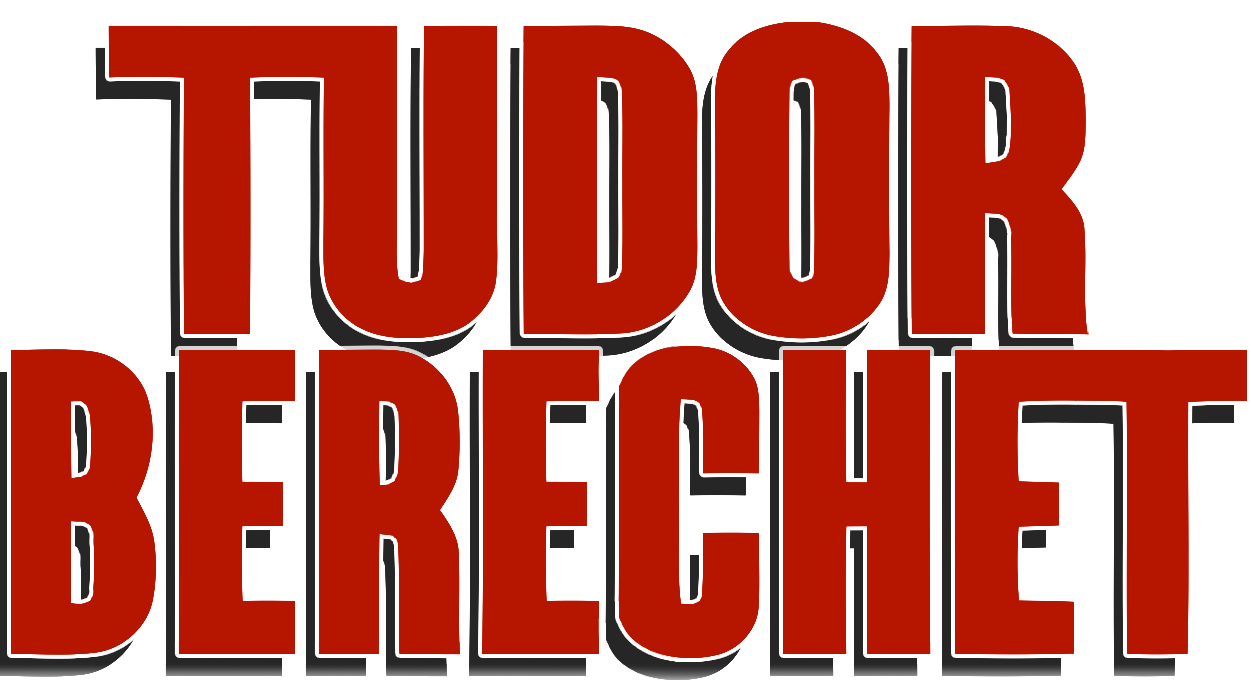
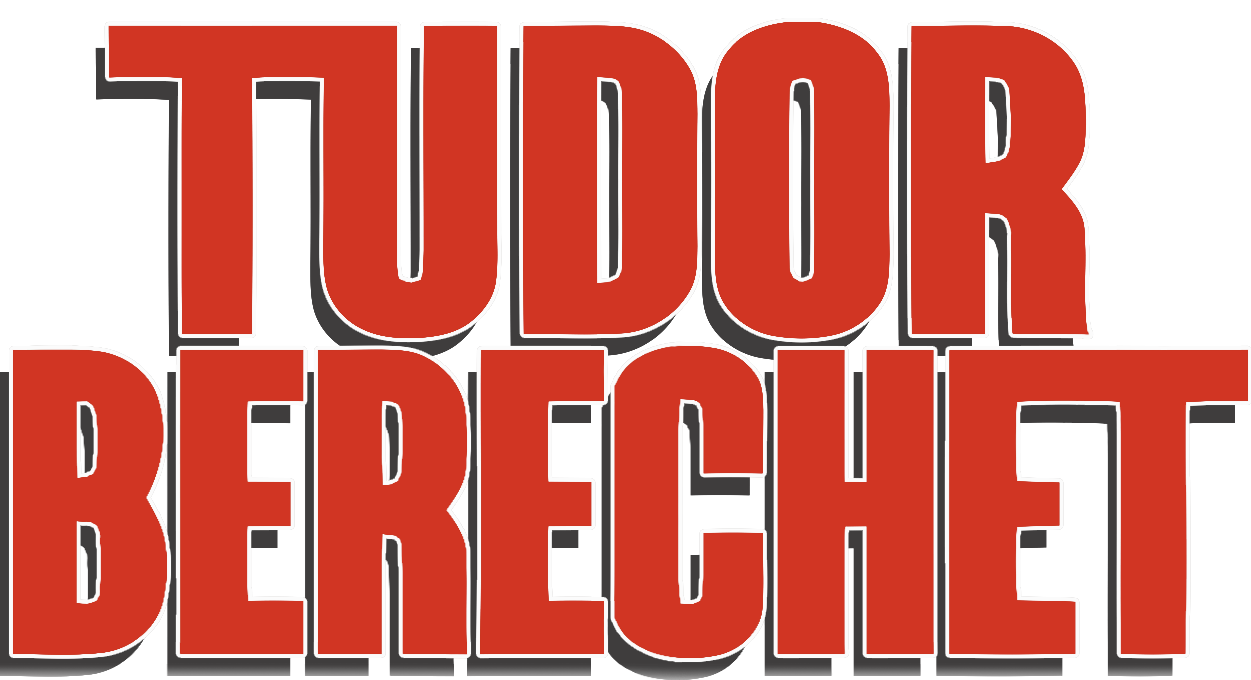
Bumped up global light brightness.

diff --git a/css/style.css b/css/style.css
@@ -342,23 +342,7 @@ http://fontpro.com/days-one-font-16514
 }
 
 .highlight{
-	/*color: #c53935;*/
-	/*text-shadow: 0px 6px 8px rgba(0,0,0,.16);*/
-	/*
-	color: black;
-	-webkit-text-fill-color: black; 
-    -webkit-text-stroke-width: 14px;
-    -webkit-text-stroke-color: rgba(255,255,255,.074);
-	*/
 
-	/*text-shadow: 0px 0px 14px rgba(255,255,255,1);*/
-	/*text-shadow:0 0 10px #fff, 0 0 20px #00d2ff, 0 0 30px #00d2ff, 0 0 40px #00d2ff, 0 0 50px #00d2ff, 0 0 60px #00d2ff, 0 0 70px #00d2ff;*/
-	/*0 0 10px rgba(255,255,255,1),*/
-	/*
-	text-shadow: 0 0 12px rgba(255,255,255,0.8), 0 0 18px rgba(255,255,255,0.6), 0 0 24px rgba(255,255,255,0.8) 0 0 24px rgba(255,255,255,1) 
-	0 0 24px rgba(255,255,255,1) 0 0 24px rgba(255,255,255,1) 0 0 24px rgba(255,255,255,1) 0 0 24px rgba(255,255,255,1);*/
-	/*text-shadow: 0 0 12px rgba(255,255,255,0.8), 0 0 18px rgba(255,255,255,0.6), 0 0 24px rgba(255,255,255,0.8), 0 0 12px*/
-	/*
 	text-shadow: 0 0 12px rgba(255,255,255,1), 0 0 18px rgba(255,255,255,1), 0 0 24px rgba(255,255,255,1), 0 0 12px rgba(255,255,255,.25), 0 0 18px rgba(255,255,255,.25), 0 0 24px rgba(255,255,255,.25);*/
 	text-shadow: 0 0 12px rgba(255,255,255,.7), 0 0 18px rgba(255,255,255,.8), 0 0 24px rgba(255,255,255,.7);  
 }
@@ -644,7 +628,7 @@ button {  width: auto; overflow: visible; }
 	/*left: -84px;*/
 	left: -86px;
 	/*top: -9px; */
-	top: -9px; 
+	top: -10px; 
 	
 	cursor: default; 
 	
@@ -689,7 +673,7 @@ button {  width: auto; overflow: visible; }
 	height: 171px;  
 	background: url("../images/tudor0.png"); 
 	background-size: 281px 171px;
-	opacity: 0.95;/*0.8;*/
+	opacity: 0.92;/*0.95;*//*0.8;*/
     filter: alpha(opacity = 95/*80*/); /* For IE */ 
 	background-repeat: no-repeat;
 	/*
@@ -832,24 +816,31 @@ button {  width: auto; overflow: visible; }
 	
 	
 	/*padding-right: 12px;*/
-	padding-right: 10px;/*5px;*/
+	padding-right: 13px;/*5px;*/
 	/*margin-left: -18px;*/
-	margin-left: -12px;/*-8px;*/
+	/*margin-left: -12px;*//*-8px;*/
+	margin-left: 1px;/*-8px;*/
 	top: -6px;
 
-	width: 100px;
-	height: 70px;/*70px;*/
+	/*width: 100px;*/
+	width: 78px;
+	/*height: 64px;*//*70px;*/
+	height: 50px;
  }
    #symbolMain{
 	position: relative;
 	display: inline-block;
 
-	margin-top: 15px;
-	width: 100px;
-	height: 70px;
+	/*margin-top: 15px;*/
+	margin-top: 13px;
+	/*width: 100px;*/
+	width: 80px;
+	/*height: 70px;*/
+	height: 64px;
 	background: url("../images/symbol.png");
 	/*background-size: 400px 280px;*/
-	background-size: 100px 70px;
+	/*background-size: 100px 70px;*/
+	background-size: auto 56px;
 	opacity: 0.74;
     filter: alpha(opacity = 74);  /* For IE */
 	background-repeat: no-repeat;
@@ -990,7 +981,7 @@ button {  width: auto; overflow: visible; }
 	-o-box-shadow: 0px 0px 8px rgba(255,255,255,0.56);
 	box-shadow: 0px 0px 8px rgba(255,255,255,0.56);
 	
-	background-color: rgba(255,255,255,0.75);
+	background-color: rgba(257,254,255,0.75);
 	
 	-webkit-transition: all 1s;
 	-moz-transition: all 1s;
@@ -1046,7 +1037,7 @@ button {  width: auto; overflow: visible; }
 	*/
 	
 	/*color: #fff;#c53935;*/
-	color: rgba(255,255,255,0.75);
+	color: rgba(257,254,255,0.75);
 	
 	-moz-transform:rotate(0deg);
 	-o-transform:rotate(0deg);
@@ -1735,7 +1726,7 @@ button {  width: auto; overflow: visible; }
 	
 	/*background-color: rgba(255,255,255,.4);*//*fgAlpha 82*/
 	/*background-color: rgba(255,255,255,.3); */
-	background-color: rgba(255,255,255,.5); 
+	background-color: rgba(257,254,255,.5); 
     background-size: 100%;  /*this can be set to scale X or Y separately*/
 	-webkit-background-size: 100%;
 	-moz-background-size: 100%;
@@ -1784,7 +1775,7 @@ button {  width: auto; overflow: visible; }
 	-webkit-border-bottom-left-radius: 3px; 
 	
 	/*background-color: rgba(255,255,255,.4);*//*fgAlpha 82*/
-	background-color: rgba(255,255,255,.5);/*fgAlpha 82*/
+	background-color: rgba(257,254,255,.5);/*fgAlpha 82*/
     background-size: 100%;  /*this can be set to scale X or Y separately*/
 	-webkit-background-size: 100%;
 	-moz-background-size: 100%;
@@ -1895,7 +1886,7 @@ overflow: visible;
 	
 	/*background-color: rgba(255,255,255,.4);*//*fgAlpha 82*/
 	/*background-color: rgba(255,255,255,.3);*//*fgAlpha 82*/
-	background-color: rgba(255,255,255,.4);/*fgAlpha 82*/
+	background-color: rgba(257,254,255,.4);/*fgAlpha 82*/
     background-size: 100%;  /*this can be set to scale X or Y separately*/
 	-webkit-background-size: 100%;
 	-moz-background-size: 100%;
@@ -2016,7 +2007,7 @@ overflow: visible;
 	/*background-color: rgba(255,255,255,.66);*//*82*/
 	/*background-color: rgba(255,255,255,.7);*/
 	/*background-color: rgba(255,255,255,.75);*/
-	background-color: rgba(255,255,255,.88);
+	background-color: rgba(257,254,255,.88);
 }
 
 
@@ -2024,7 +2015,7 @@ overflow: visible;
 #projects{
 
 	/*background-color: rgba(255,255,255,.65)*/;/*82*/
-	background-color: rgba(255,255,255,.80);
+	background-color: rgba(257,254,255,.80);
 	overflow: hidden;
 }
 
@@ -2306,7 +2297,7 @@ overflow: visible;
 	margin-bottom: 0px;
 	margin-left: auto;*/
 
-	background-color: rgba(255,255,255,.4);/fgAlpha *82*/
+	background-color: rgba(257,254,255,.4);/fgAlpha *82*/
     background-size: 100%;  /*this can be set to scale X or Y separately*/
 	-webkit-background-size: 100%;
 	-moz-background-size: 100%;
@@ -2343,7 +2334,7 @@ overflow: visible;
 	
 	
 	/*border: 20px solid rgba(255,0,0,0.64);*//*201,0,0,0.7*/
-	border: 20px solid rgba(255,255,255,0.12);
+	border: 20px solid rgba(257,254,255,0.12);
 	/*border-width: 30px 20px 30px 20px;*/
 	/*border-width: 1.85em 1.1em 1.85em 1.1em;*/
 	/*border-width: 1.85em 1.8em 1.85em 1.8em;*/
@@ -2402,7 +2393,7 @@ overflow: visible;
 	width: 16.25em;
 	height: 16.25em;
 
-	background-color: rgba(255,255,255,.4);/fgAlpha *82*/
+	background-color: rgba(257,254,255,.4);/fgAlpha *82*/
     background-size: 100%;
 	-webkit-background-size: 100%;
 	-moz-background-size: 100%;
@@ -2527,7 +2518,7 @@ overflow: visible;
 
 
 	/*background-color: rgba(255,255,255,.4);*//*fgAlpha *82*/
-	background-color: rgba(255,255,255,.4);
+	background-color: rgba(257,254,255,.4);
     background-size: 100%;  /*this can be set to scale X or Y separately*/
 	-webkit-background-size: 100%;
 	-moz-background-size: 100%;

diff --git a/index.html b/index.html
@@ -59,8 +59,9 @@
 	</script>
 </head>
 
-<!--body id="zen" onload="doCenter(window.center({width:1,height:1}))" style="background: #d7dfd4;"-->
-<body id="zen" style="background: #e5ede2;" onload="onMainLoaded()"> 
+<!--body id="zen" onload="doCenter(window.center({width:1,height:1}))" style="
+background: #e5ede2; #d7dfd4;"-->
+<body id="zen" style="background: rgb(255,251,237);" onload="onMainLoaded()"> 
 <h1 id="hh1">Tudor's portfolio website. Software, games, shaders, design, art.</h1>
 
 <div id="container">	
@@ -116,9 +117,9 @@
 						<div class="article highlight" >
 							
 							<div id="openingWrapper">
-								<span id="openingL"><p><span id="symbolCntMain"><span id="symbolMain"></span></span><span class="parStart"></span> Hi, I'm Tudor and I like to express myself through interactive means of escapism. Let's see if we can be best buds.</p>
+								<span id="openingL"><p><span id="symbolCntMain"><span id="symbolMain"></span></span><span class="parStart"></span> Hi, I'm Tudor and I like to express myself through interactive means of escapism. &nbsp; Let's see if we can be best buds.</p>
 								<p><span class="parStart"></span> I have degrees in <span class="BoldFont bgHighlightImportant">Computer Science</span>, <span class="BoldFont bgHighlightImportant">Industrial Design</span>, and <span class="BoldFont bgHighlightImportant">Game Technology</span>.
-								<br/>My approach is technical but interdisciplinary. I'm an aficionado of <span class="bgHighlight">gameplay</span>, <span class="bgHighlight">simulations</span> and <span class="bgHighlight">data oriented programming</span>. I also have fun researching <span class="bgHighlight">PCG</span>, <span class="bgHighlight">VFX</span>, and physics or mechanics using <span class="bgHighlight">GPGPU</span>.  </p></span>
+								My approach is technical but interdisciplinary. I'm an aficionado of <span class="bgHighlight">gameplay</span>, <span class="bgHighlight">simulations</span> and <span class="bgHighlight">data oriented programming</span>. I also have fun researching <span class="bgHighlight">PCG</span>, <span class="bgHighlight">VFX</span>, and physics or mechanics using <span class="bgHighlight">GPGPU</span>.  </p></span>
 								
 								<span id="openingR"><p><span class="parStart"></span> Interactive software = science + craft. Over the years I picked my studies to learn to research the most <span class="bgHighlight">tractable</span> solutions by <span class="bgHighlight">leveraging</span> the <span class="bgHighlight">technology</span> in an <span class="bgHighlight">artistically</span> aware fashion.</p>
 								

diff --git a/default.html b/default.html
@@ -70,9 +70,9 @@
 							<!--p style="height: 24px;"></p-->
 							
 							<div id="openingWrapper">
-								<span id="openingL"><p><span id="symbolCntMain"><span id="symbolMain"></span></span><span class="parStart"></span> Hi, I'm Tudor and I like to express myself through interactive means of escapism. Let's see if we can be best buds.</p>
+								<span id="openingL"><p><span id="symbolCntMain"><span id="symbolMain"></span></span><span class="parStart"></span> Hi, I'm Tudor and I like to express myself through interactive means of escapism. &nbsp; Let's see if we can be best buds.</p>
 								<p><span class="parStart"></span> I have degrees in <span class="BoldFont bgHighlightImportant">Computer Science</span>, <span class="BoldFont bgHighlightImportant">Industrial Design</span>, and <span class="BoldFont bgHighlightImportant">Game Technology</span>.
-								<br/>My approach is technical but interdisciplinary. I'm an aficionado of <span class="bgHighlight">gameplay</span>, <span class="bgHighlight">simulations</span> and <span class="bgHighlight">data oriented programming</span>. I also have fun researching <span class="bgHighlight">PCG</span>, <span class="bgHighlight">VFX</span>, and physics or mechanics using <span class="bgHighlight">GPGPU</span>.  </p></span>
+								My approach is technical but interdisciplinary. I'm an aficionado of <span class="bgHighlight">gameplay</span>, <span class="bgHighlight">simulations</span> and <span class="bgHighlight">data oriented programming</span>. I also have fun researching <span class="bgHighlight">PCG</span>, <span class="bgHighlight">VFX</span>, and physics or mechanics using <span class="bgHighlight">GPGPU</span>.  </p></span>
 								
 								<span id="openingR"><p><span class="parStart"></span> Interactive software = science + craft. Over the years I picked my studies to learn to research the most <span class="bgHighlight">tractable</span> solutions by <span class="bgHighlight">leveraging</span> the <span class="bgHighlight">technology</span> in an <span class="bgHighlight">artistically</span> aware fashion.</p>
 								
